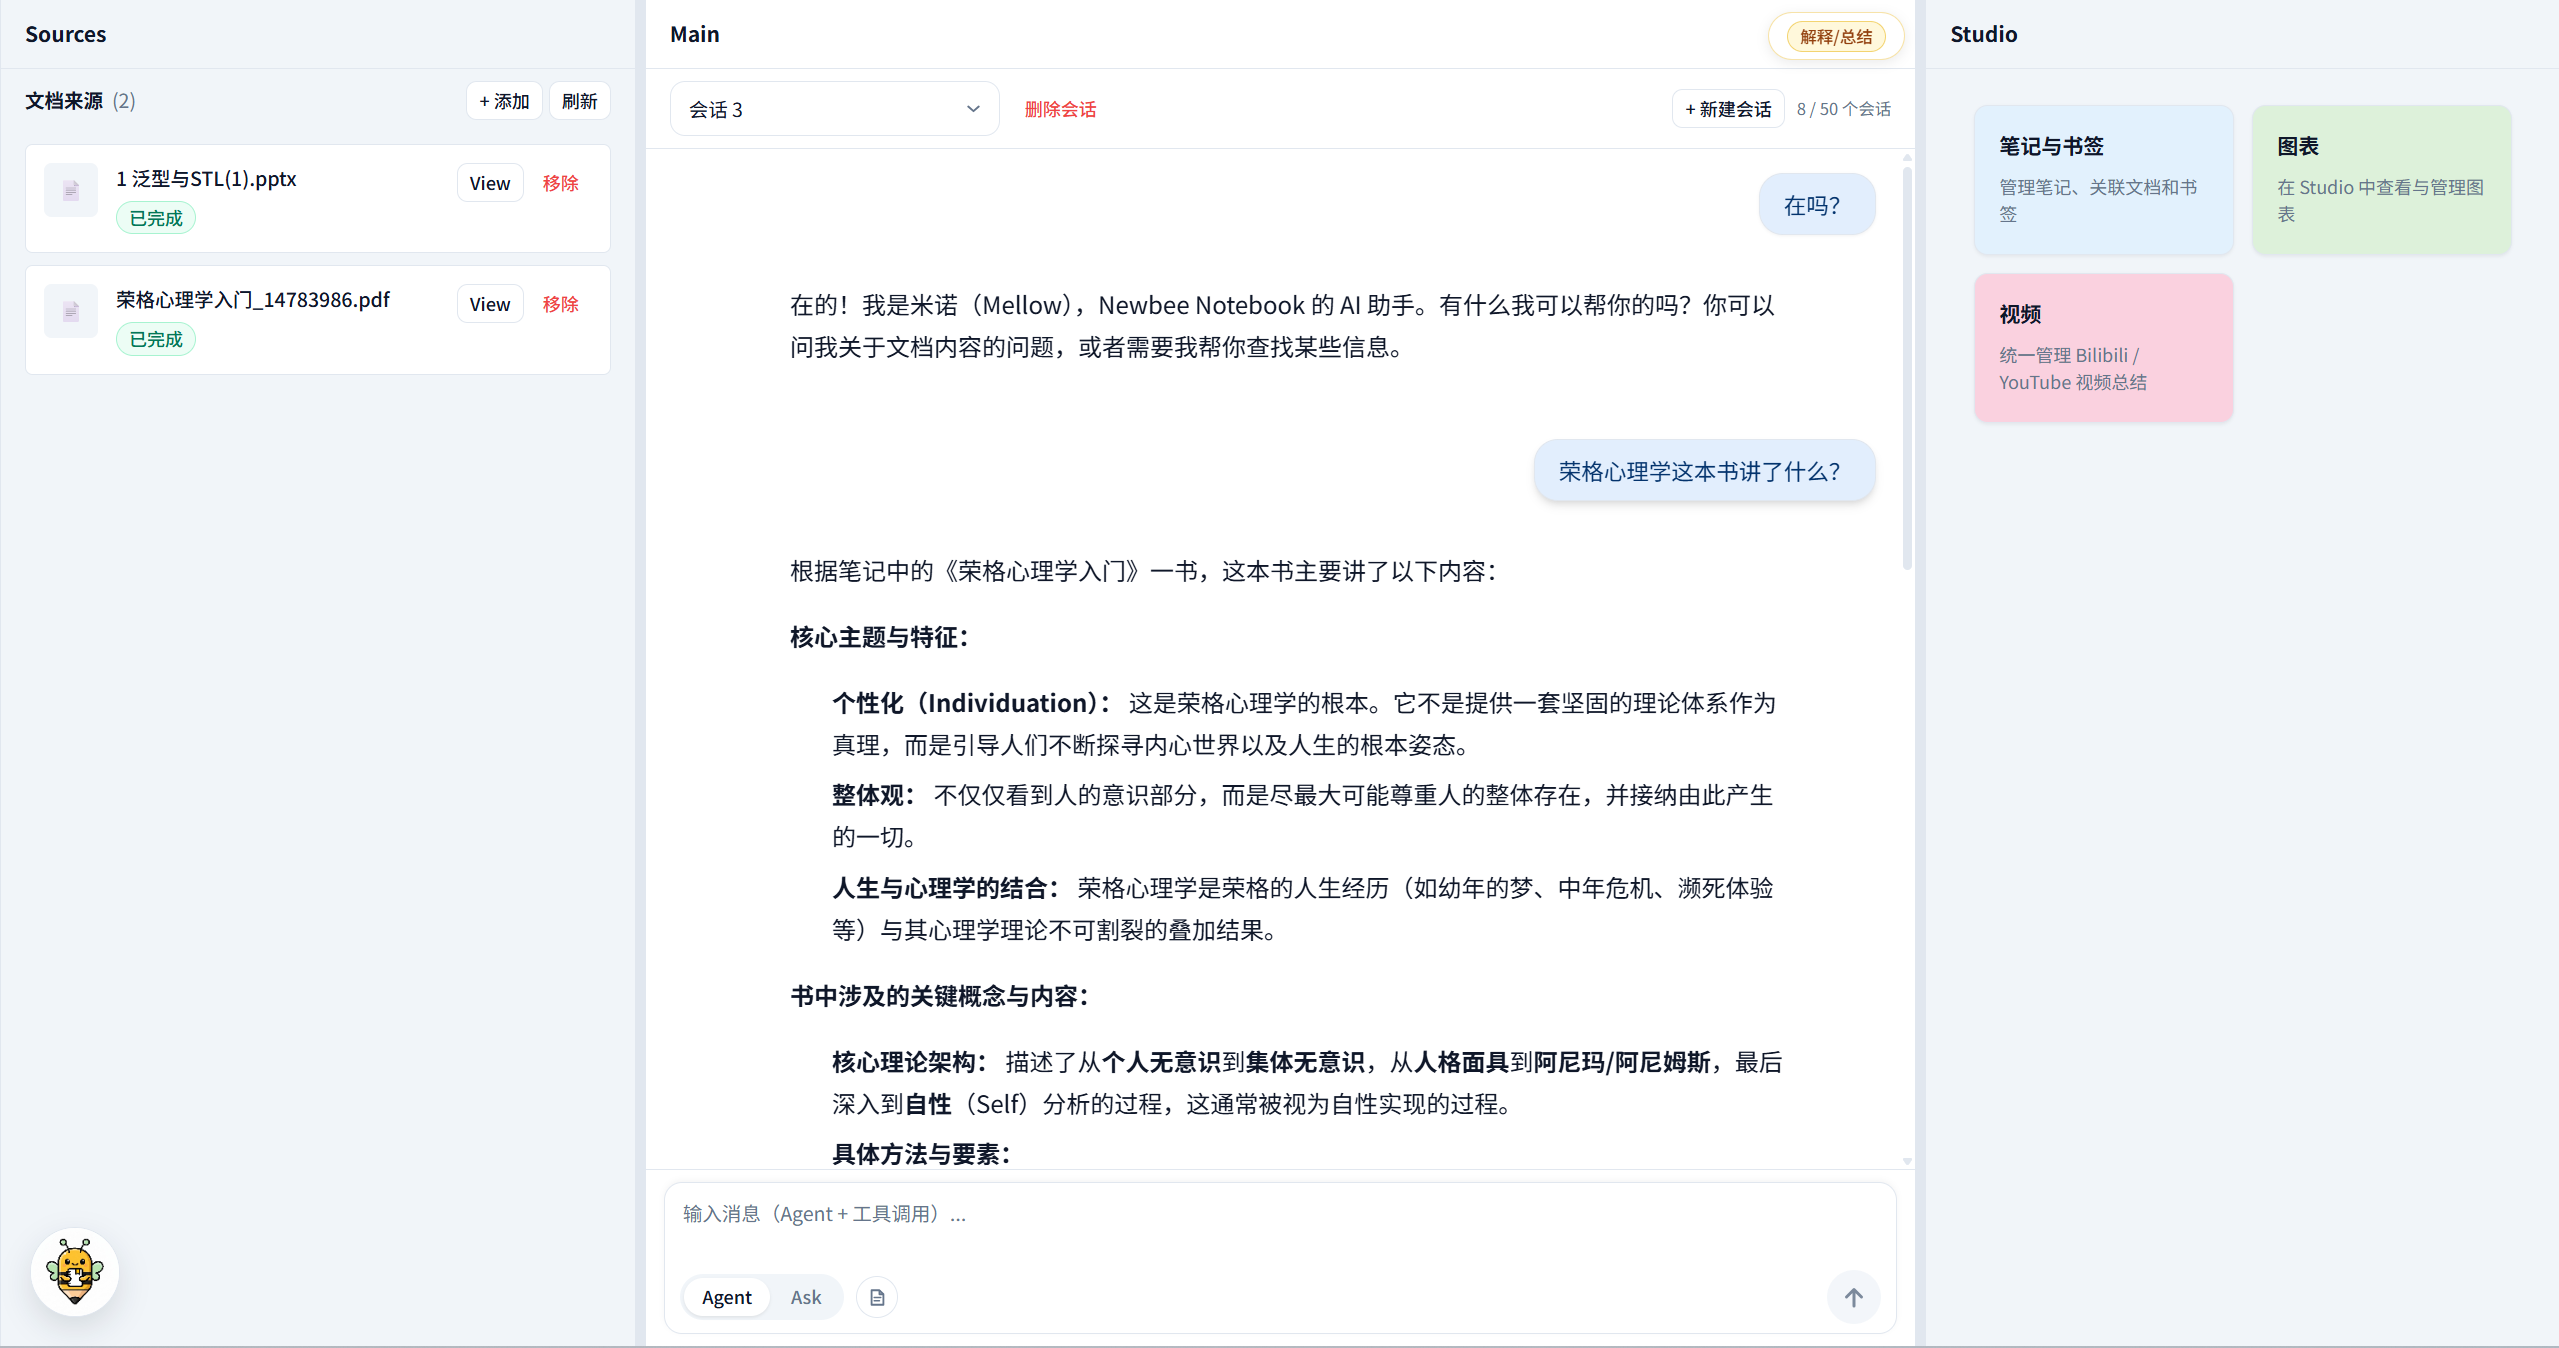
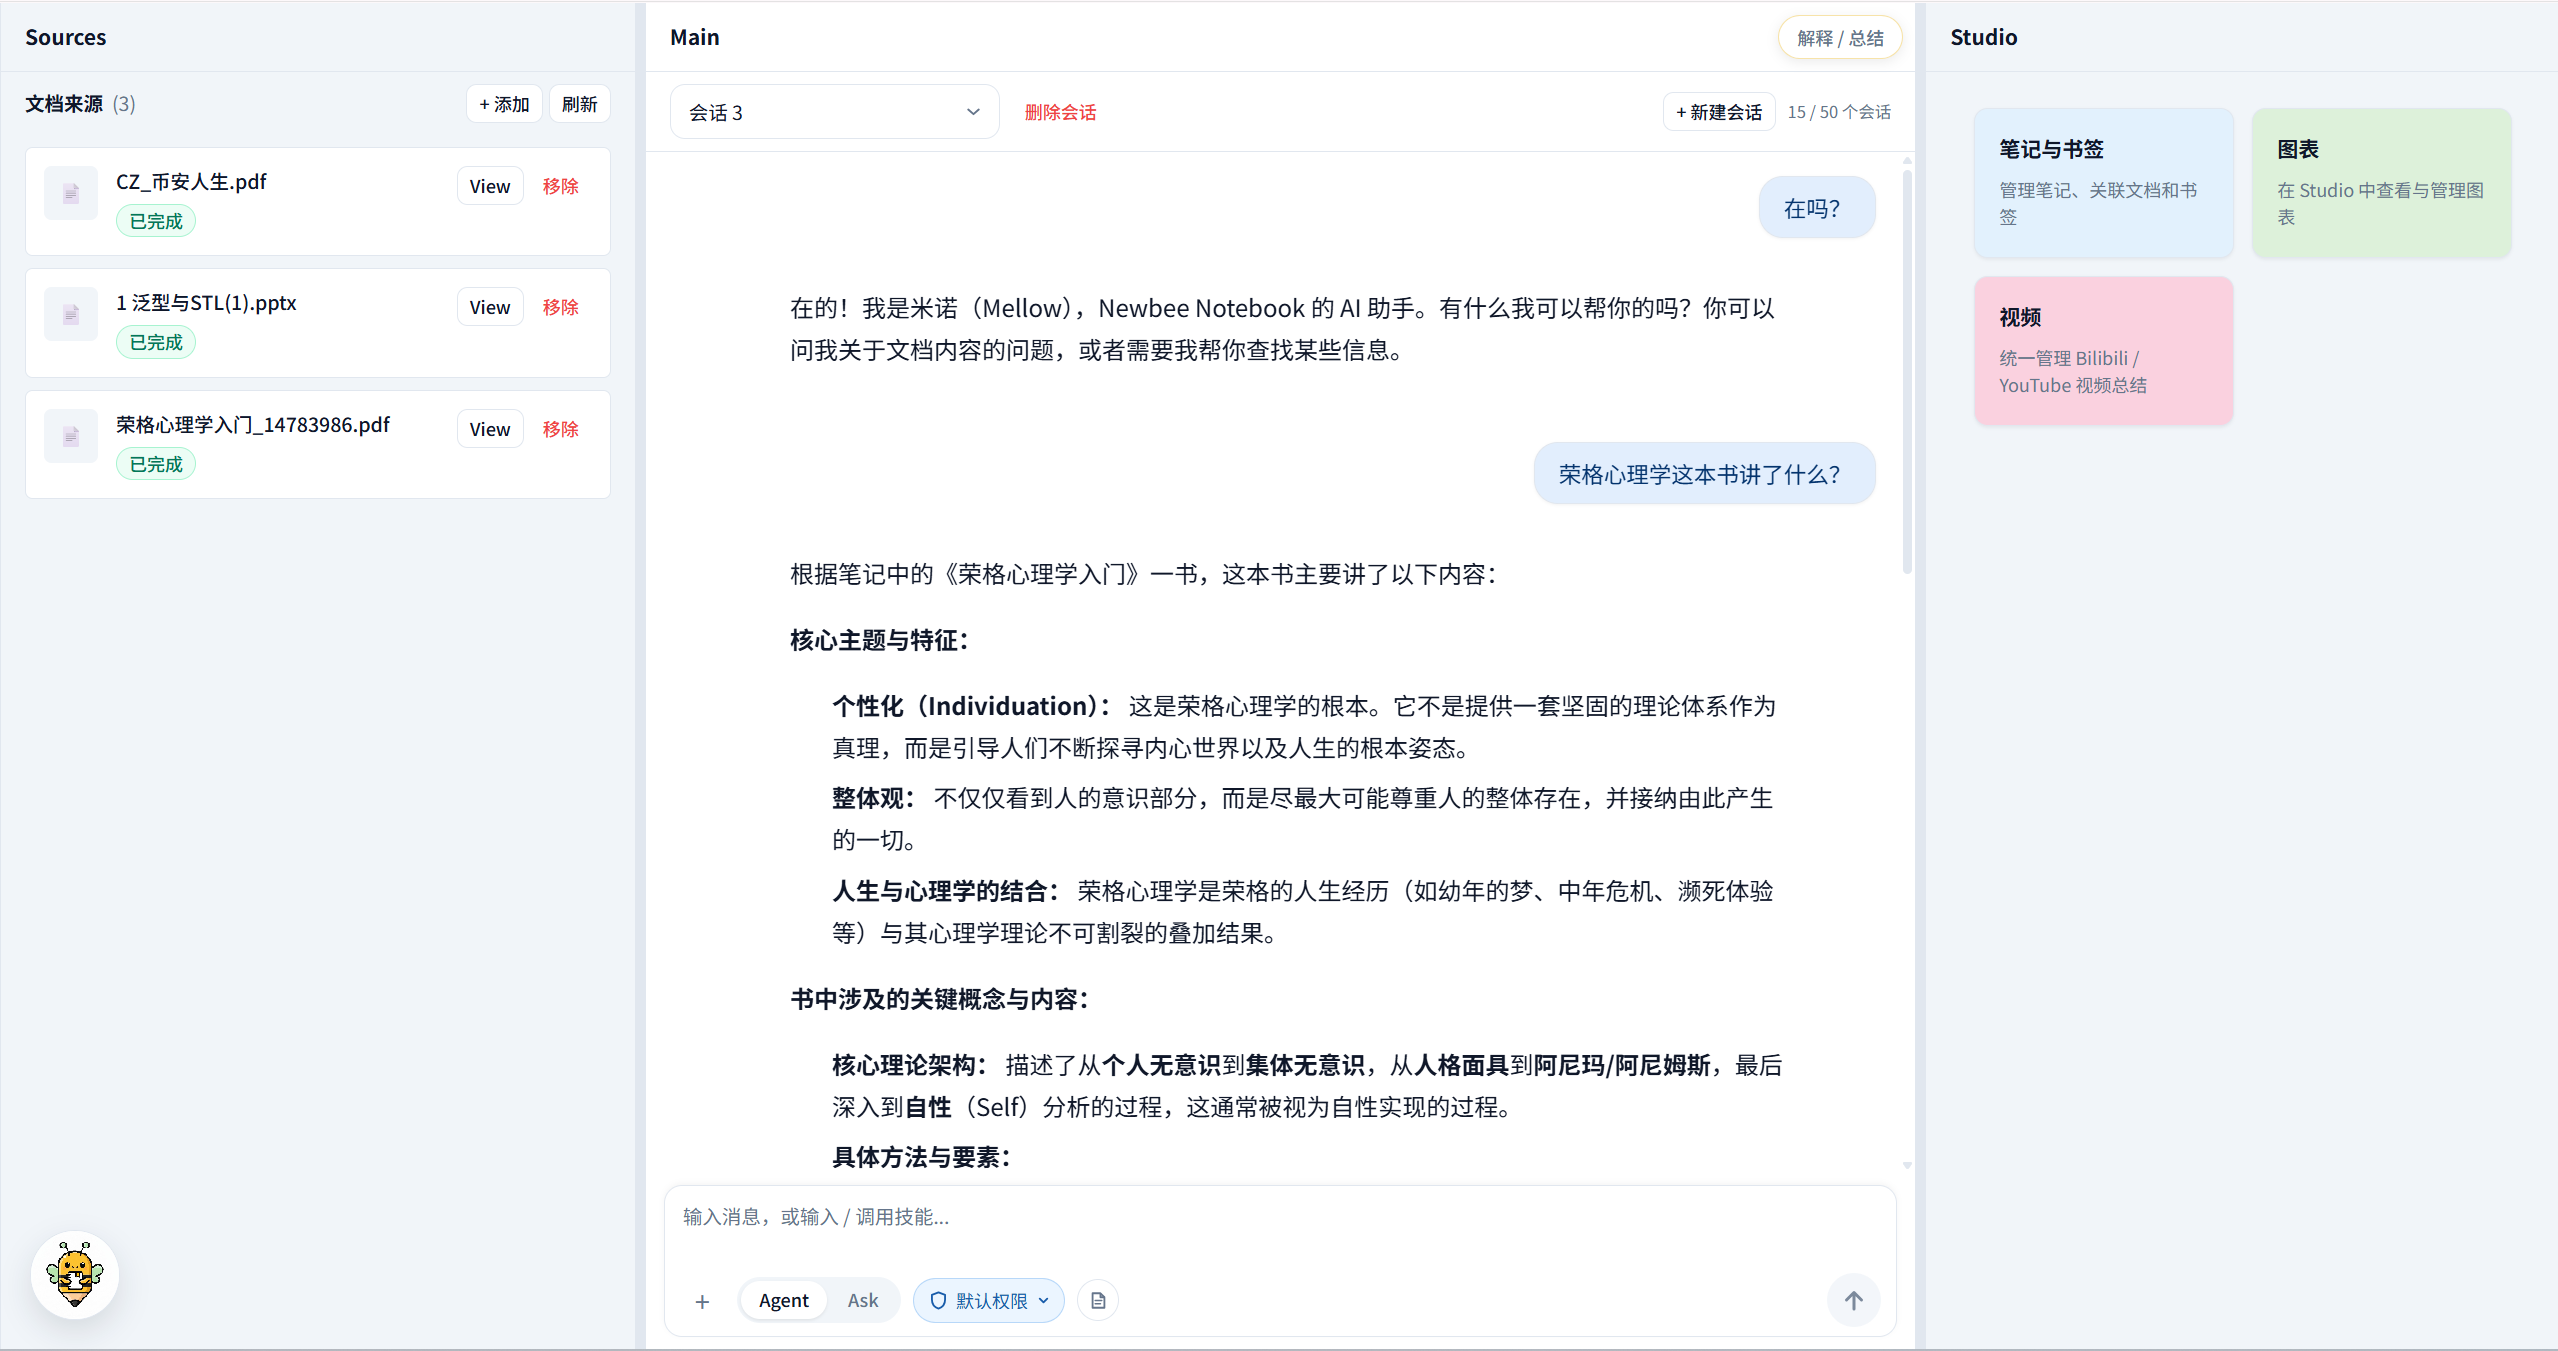
docs(readme): refresh release screenshots and roadmap

diff --git a/README_en.md b/README_en.md
@@ -56,7 +56,7 @@ Read, search, and interact with your documents through AI agents — self-hosted
 
 <div align="center">
   <img src="assets/screenshots/video-summary.png" alt="Bilibili Video Summarization" width="480">
-  <p><em>Bilibili Video Summarization — Video transcription and structured summaries</em></p>
+  <p><em>YouTube + Bilibili Video Summarization — Video transcription and structured summaries</em></p>
 </div>
 
 </details>
@@ -197,9 +197,8 @@ If you're using an NVIDIA GPU, avoid changing `torch==x.y.z` directly; instead s
 
 ## Roadmap
 
-- [ ] Skill mechanism extensions
-- [ ] Add ECharts chart support
 - [ ] New features for the Studio module
+- [ ] Improve Docker Launcher startup configuration
 
 Have an idea? Feel free to share it via [Issues](https://github.com/diverHansun/newbee-notebook/issues).
 

diff --git a/README.md b/README.md
@@ -56,7 +56,7 @@ Read, search, and interact with your documents through AI agents — self-hosted
 
 <div align="center">
   <img src="assets/screenshots/video-summary.png" alt="Bilibili 视频总结" width="480">
-  <p><em>Bilibili 视频总结 — 视频转录与结构化摘要</em></p>
+  <p><em>YouTube + Bilibili 视频总结 — 视频转录与结构化摘要</em></p>
 </div>
 
 </details>
@@ -196,10 +196,8 @@ docker compose up -d
 ---
 
 ## 近期计划
-
-- [ ] skill机制扩展
-- [ ] 新增echarts图表功能
 - [ ] studio模块新增功能
+- [ ] docker Launcher 启动配置完善
 
 有想法？欢迎通过 [Issues](https://github.com/diverHansun/newbee-notebook/issues) 告诉我。
 
